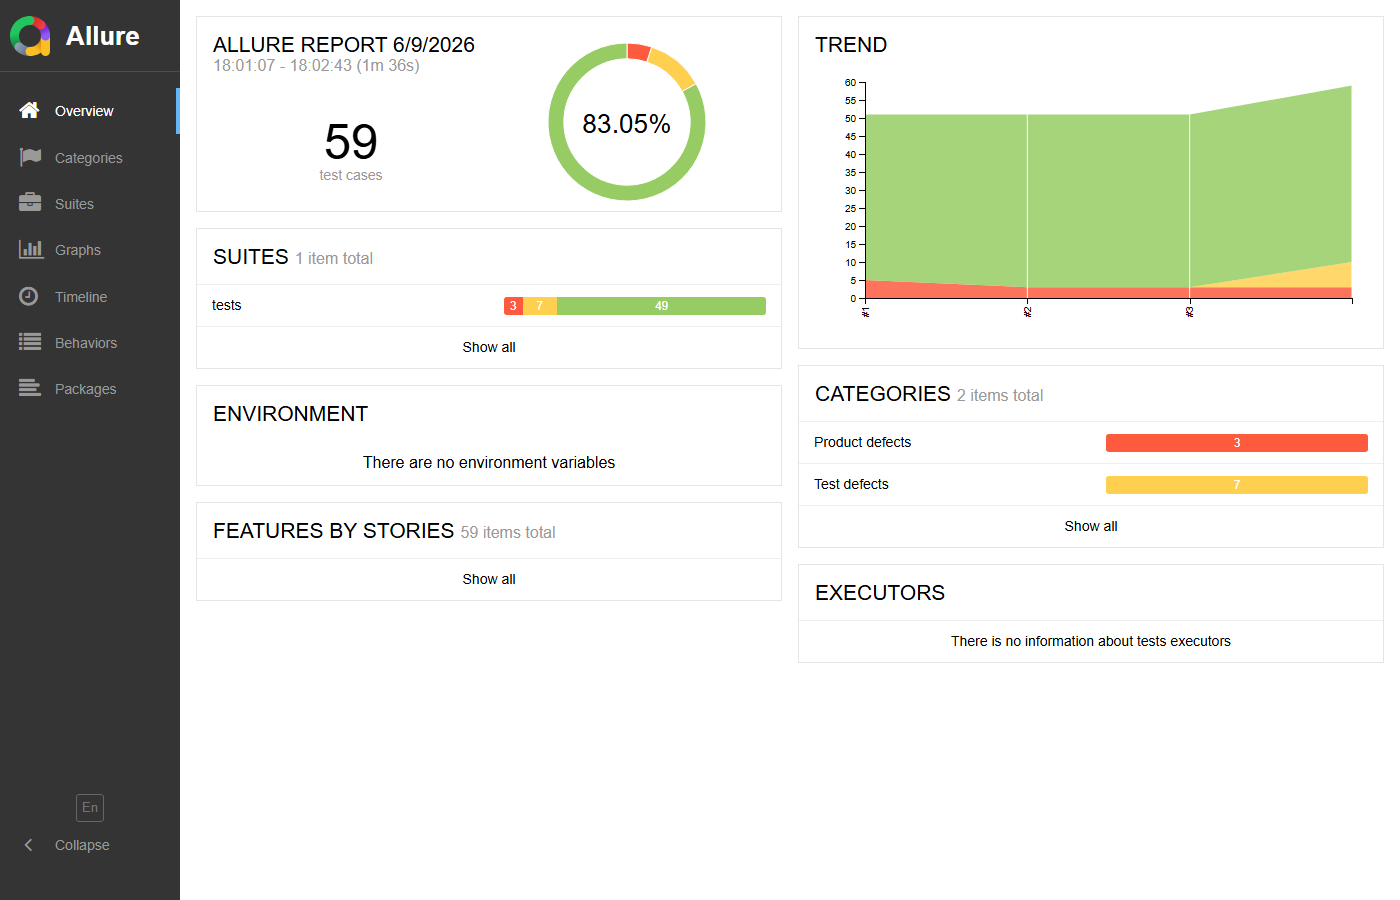
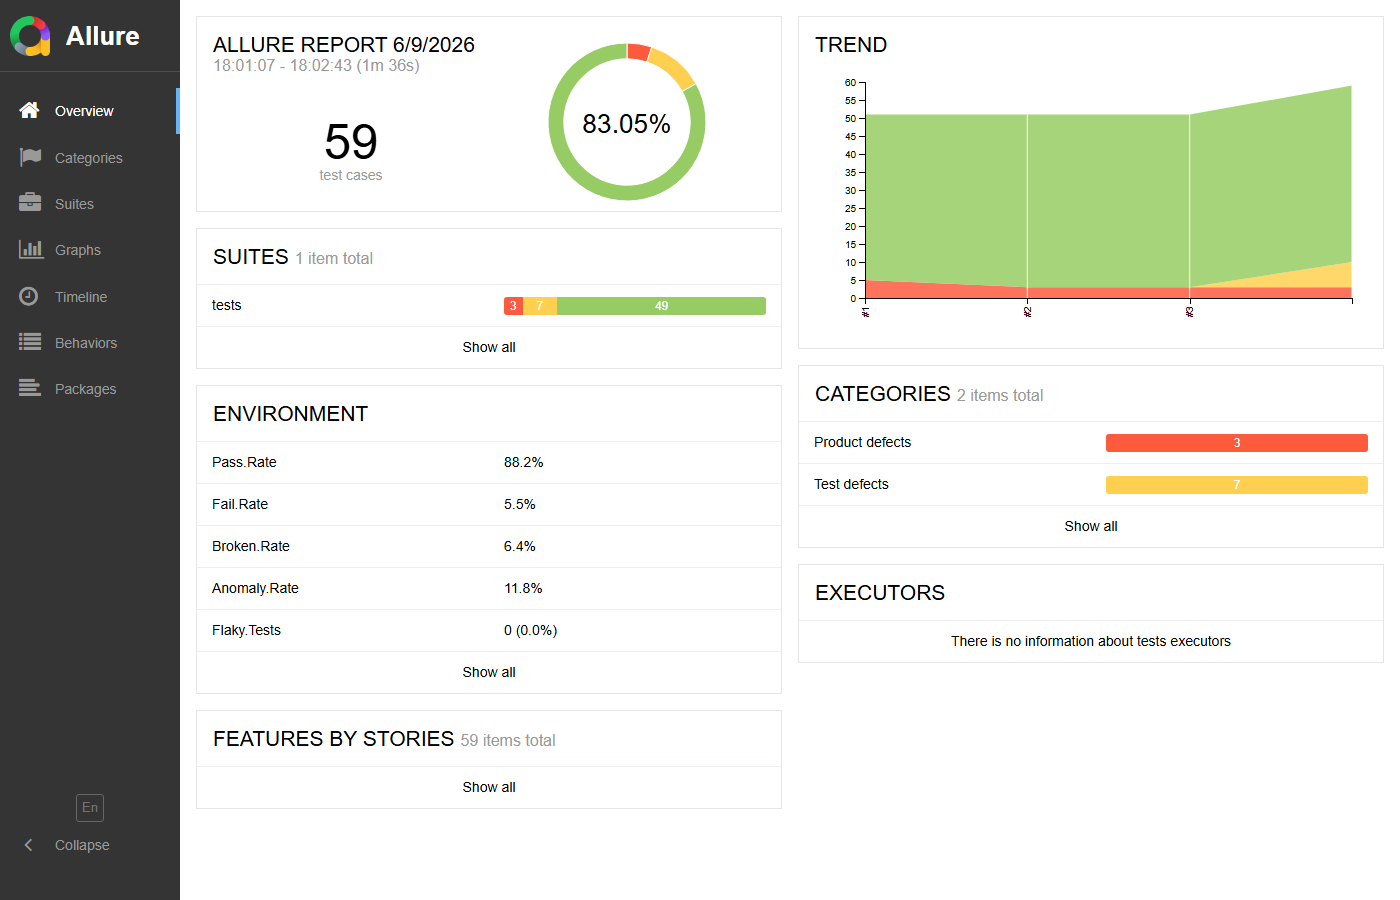
docs(screenshot): update Allure screenshot with ENVIRONMENT KPI widget
New screenshot shows: ENVIRONMENT widget (Pass.Rate 88.2%, Fail.Rate 5.5%,
Anomaly.Rate 11.8%, Flaky.Tests 0%), TREND graph (4 runs), CATEGORIES.
Generated by kpi-agent.py env + allure generate.

diff --git a/api-pytest-framework/README.md b/api-pytest-framework/README.md
@@ -31,7 +31,7 @@ Spec métier  →  Features Gherkin  →  Tests API  →  Allure Report  →  Ji
 
 ![Allure Report](docs/allure-screenshot.png)
 
-*Rapport Allure : 51 TCs BDD — 48 passés (94%) — 3 en cours d'investigation*
+*Rapport Allure : KPIs intégrés (Pass Rate 88.2% · Flaky 0% · Anomalies 11.8%) — Trend 4 runs — ENVIRONMENT widget généré automatiquement par `kpi-agent.py`*
 
 ---
 